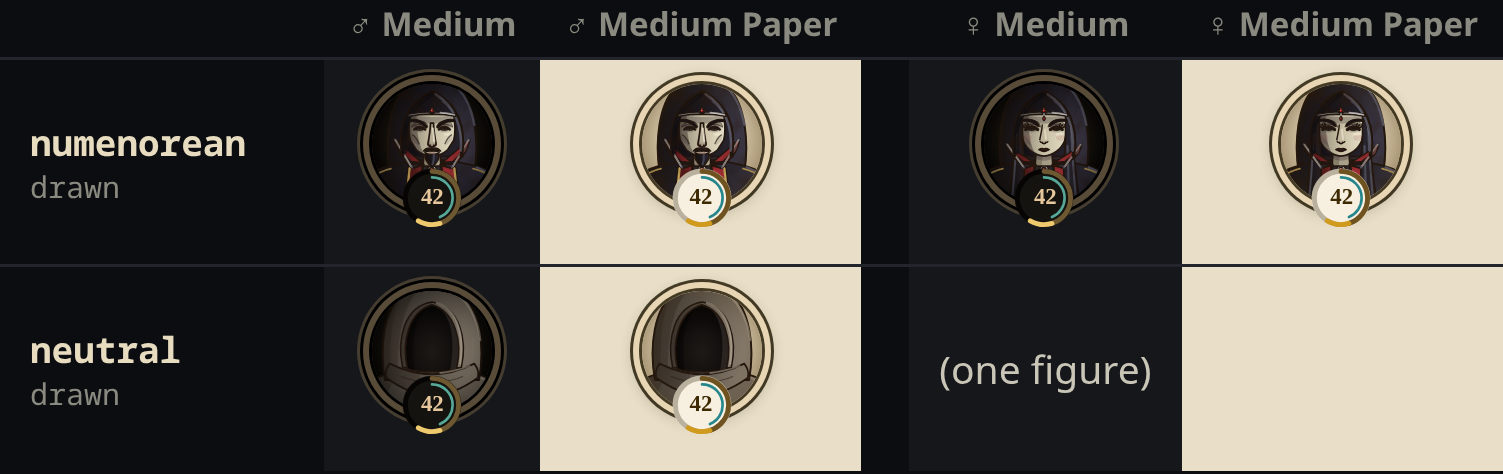
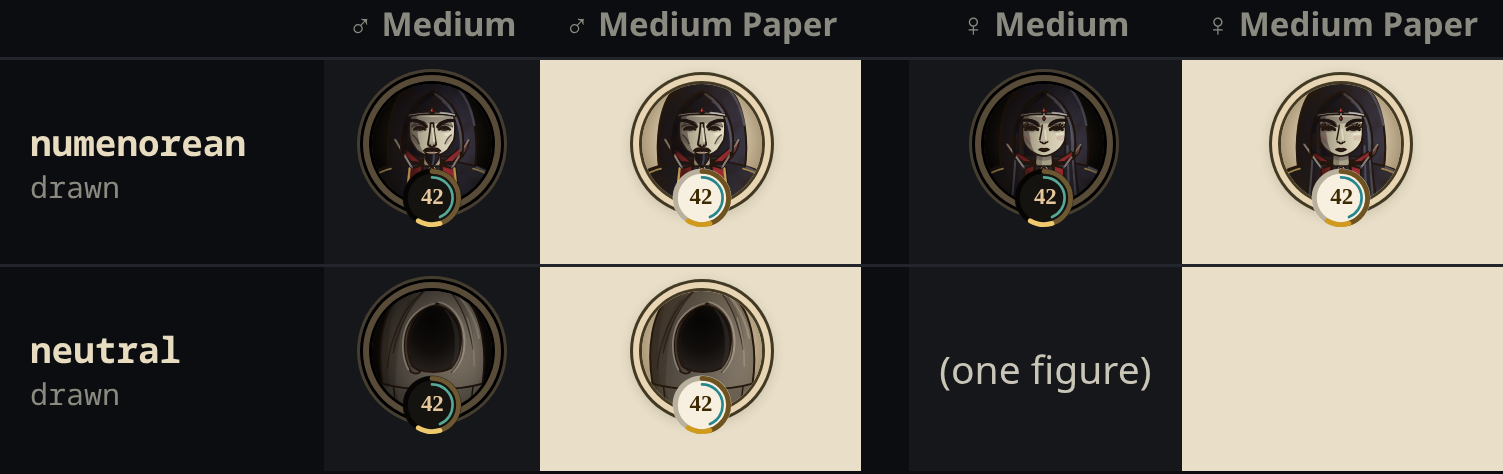
feat(portraits): the neutral figure as a cloth cowl, a soft off-centre peak, a folded rim
Claude-Session: https://claude.ai/code/session_01Fx3riSE2eMf87VxUMhb19J

Changed region(s): [[0.4285, 0.6203, 0.5203, 0.827], [0.2448, 0.6203, 0.3367, 0.827]]

diff --git a/notes/research/portraits/stage/draw/dark.ts b/notes/research/portraits/stage/draw/dark.ts
@@ -11,9 +11,11 @@
 //               brows. The man: a thin moustache and a narrow pointed beard.
 //               The woman: no beard, long black hair falling in front of the
 //               collar, dark red lips, a teardrop gem hanging from the circlet.
-//   neutral     no race known (before login, an unknown race): a broad,
-//               rounded cowl of undyed grey-brown wool, its opening pure
-//               shadow, no face, no eyes, no metal or gem. One drawing for
+//   neutral     no race known (before login, an unknown race): a cowl of
+//               undyed grey-brown wool falling to a soft peak a little off
+//               centre, folds to the shoulders, the rim folded over on the
+//               left, the opening pure shadow (deepest high up), no face, no
+//               eyes, no metal or gem; a plain wooden clasp. One drawing for
 //               both sexes. Warm mid-tone wool so it reads on the dark disc and
 //               on Paper, and never as the Númenórean (black, pointed, silver
 //               and red).
@@ -182,34 +184,41 @@ const numenorean: Draw = (o) => {
 
 const uDefs = (c: Ctx): string =>
   baseDefs(c) + lg(c, 'w', WOOL, .15) +
-  `<radialGradient id="${c.id('d')}" cx=".5" cy=".7" r=".75"><stop offset="0" stop-color="#1e1a17"/><stop offset=".7" stop-color="#0d0b0a"/><stop offset="1" stop-color="#050404"/></radialGradient>`;
+  // the shadow inside: deepest high in the opening, falling off softly toward the bottom
+  `<radialGradient id="${c.id('d')}" cx=".46" cy=".28" r=".8" fx=".44" fy=".22"><stop offset="0" stop-color="#060505"/><stop offset=".55" stop-color="#110e0c"/><stop offset="1" stop-color="#2c2622"/></radialGradient>`;
 
 const neutral: Draw = (o) => {
   const c = ctx(o), W = c.url('w'), hi = light(WOOL[2], .45);
-  // the cloak over the shoulders
-  const body = 'M-124,150L-122,104C-116,82 -98,70 -70,64L-40,58L40,58L70,64C98,70 116,82 122,104L124,150Z';
-  const cloak = `<path d="${body}" fill="${W}" stroke-width="1.2"/><path d="M-124,150L-122,104C-116,82 -98,70 -70,64L-50,60C-74,78 -82,110 -80,150Z" fill="${c.url('p')}" stroke="none"/><path d="M-124,150L-122,104C-116,86 -104,76 -90,70C-102,90 -106,116 -104,150Z" fill="${c.url('q')}" stroke="none"/>` +
-    `<path d="M-6,92L-4,150M4,96L8,150" fill="none" stroke-width=".9" opacity=".7"/>` +
-    c.fine('<path d="M-96,86C-92,106 -92,128 -94,150M-64,80C-62,104 -62,128 -64,150M66,80C64,104 64,128 66,150M96,86C92,106 92,128 94,150" fill="none" stroke-width=".6" opacity=".55"/>') +
-    `<path d="M78,70C100,78 114,90 118,110" fill="none" stroke="${hi}" stroke-width="1.4" opacity=".5"/>`;
-  // the cowl: a broad rounded hood, a soft peak
-  const H = 'M-80,76C-90,20 -82,-48 -46,-72C-28,-84 -10,-90 0,-92C10,-90 28,-84 46,-72C82,-48 90,20 80,76Z';
-  const hood = mass(H, W, 1.3, 'M-80,76C-90,20 -82,-48 -46,-72C-34,-80 -18,-87 -4,-90C-40,-70 -60,-30 -58,76Z', c, 'M-80,76C-90,20 -82,-48 -52,-68C-68,-38 -74,14 -68,76Z') +
-    `<path d="M30,-80C60,-62 78,-30 82,8" fill="none" stroke="${hi}" stroke-width="1.5" opacity=".55"/>` +
-    c.fine('<path d="M-68,-30C-74,0 -74,34 -72,66M-40,-74C-50,-60 -58,-44 -62,-26M70,-26C76,4 76,36 74,66M8,-88C18,-84 28,-80 36,-76M-58,-16C-62,10 -62,36 -58,58M60,-12C64,12 64,36 60,58" fill="none" stroke-width=".6" opacity=".55"/>');
-  // the opening: shadow, no face; the hood's lit inner side on the right gives it depth
-  const O = 'M-42,56C-52,10 -40,-40 0,-52C40,-40 52,10 42,56C26,64 -26,64 -42,56Z';
-  const hole = `<path d="${O}" fill="url(#${c.id('d')})" stroke-width="1.2"/>` +
-    `<path d="M22,-44C40,-28 50,10 42,56Q37,58 31,59C38,14 36,-18 18,-42Z" fill="${WOOL[0]}" opacity=".55" stroke="none"/>` +
-    `<path d="M-42,56C-52,10 -40,-40 0,-52C-28,-38 -36,0 -30,60Z" fill="#000" opacity=".3" stroke="none"/>`;
-  // the cowl's drape across the chest, closing the opening at the bottom, then the rim
-  const drape = 'M-72,48C-44,62 -22,66 0,66C22,66 44,62 72,48C78,56 80,64 78,72C50,92 24,102 0,102C-24,102 -50,92 -78,72C-80,64 -78,56 -72,48Z';
-  const R = 'M-42,56C-52,10 -40,-40 0,-52C40,-40 52,10 42,56L50,54C60,8 48,-50 0,-57C-48,-50 -60,8 -50,54Z';
-  const edge = mass(drape, W, 1.1, 'M-72,48C-50,58 -34,63 -20,65L-22,101C-40,98 -60,88 -78,72C-80,64 -78,56 -72,48Z', c) +
-    `<path d="M-52,70C-30,82 30,82 52,70M-30,86C-12,92 12,92 30,86" fill="none" stroke-width=".8" opacity=".5"/><path d="M14,64C36,62 52,56 64,52" fill="none" stroke="${hi}" stroke-width="1.2" opacity=".5"/>` +
-    mass(R, W, 1, 'M-42,56C-52,10 -40,-40 0,-52L0,-57C-48,-50 -60,8 -50,54Z', c) +
-    `<path d="M8,-55C40,-46 56,-6 48,48" fill="none" stroke="${hi}" stroke-width="1.3" opacity=".6"/>`;
-  return svg(c, uDefs(c), pen(c, cloak, true) + pen(c, hood, true) + pen(c, hole, true) + pen(c, edge, true));
+  // the cloak over sloping shoulders, two deep folds, the front edges meeting at a plain clasp
+  const body = 'M-126,150L-124,116C-120,98 -104,86 -84,80L-40,72L40,72L84,80C104,86 120,98 124,116L126,150Z';
+  const cloak = `<path d="${body}" fill="${W}" stroke-width="1.2"/><path d="M-126,150L-124,116C-120,98 -104,86 -84,80L-64,76C-86,96 -92,120 -90,150Z" fill="${c.url('p')}" stroke="none"/><path d="M-126,150L-124,116C-120,100 -110,92 -98,86C-108,104 -110,126 -108,150Z" fill="${c.url('q')}" stroke="none"/>` +
+    `<path d="M-66,84C-62,106 -64,130 -72,150L-54,150C-52,126 -56,104 -66,84Z" fill="${c.url('p')}" stroke="none"/><path d="M-66,84C-62,106 -64,130 -72,150" fill="none" stroke-width=".9"/>` +
+    `<path d="M70,86C66,108 68,130 76,150L64,150C62,128 62,106 70,86Z" fill="${WOOL[0]}" opacity=".35" stroke="none"/><path d="M70,86C66,108 68,130 76,150" fill="none" stroke-width=".9"/>` +
+    `<path d="M2,86C-2,108 -6,130 -10,150M8,86C10,108 14,130 18,150" fill="none" stroke-width=".9" opacity=".75"/>` +
+    `<path d="M86,84C104,90 116,102 120,118" fill="none" stroke="${hi}" stroke-width="1.4" opacity=".5"/>`;
+  // the hood: falls to a soft peak a little right of centre, as if the head had turned
+  const H = 'M-84,82C-94,26 -86,-40 -54,-68C-32,-86 -6,-93 12,-96C24,-90 42,-80 56,-64C86,-36 94,28 86,82C46,94 -40,96 -84,82Z';
+  const hood = mass(H, W, 1.3, 'M-84,82C-94,26 -86,-40 -54,-68C-36,-82 -16,-90 4,-94C-34,-74 -60,-30 -62,88Z', c, 'M-84,82C-94,26 -86,-40 -58,-64C-72,-34 -78,20 -72,86Z') +
+    // folds radiating from the peak to the shoulders
+    `<path d="M6,-90C-26,-70 -52,-30 -66,30C-68,10 -62,-24 -40,-58Z" fill="${c.url('p')}" stroke="none"/>` +
+    `<path d="M16,-90C40,-70 60,-34 70,24C74,-6 64,-44 38,-74Z" fill="${WOOL[0]}" opacity=".28" stroke="none"/>` +
+    `<path d="M6,-90C-26,-70 -52,-30 -66,30M16,-90C40,-70 60,-34 70,24M-4,-84C-36,-62 -70,-14 -76,56" fill="none" stroke-width=".8" opacity=".7"/>` +
+    `<path d="M22,-88C50,-70 72,-38 80,4" fill="none" stroke="${hi}" stroke-width="1.5" opacity=".55"/><path d="M60,-30C68,-6 72,22 72,52" fill="none" stroke="${hi}" stroke-width="1.1" opacity=".45"/>` +
+    c.fine('<path d="M-30,-74C-50,-56 -64,-30 -70,0M30,-78C48,-62 60,-42 66,-20M-58,40C-60,58 -58,72 -54,84M58,36C62,56 62,70 60,84" fill="none" stroke-width=".55" opacity=".5"/>');
+  // the opening: an irregular oval, turned a little to the right; shadow only (a chin line read as a smile)
+  const O = 'M-34,52C-48,22 -44,-28 -10,-48C12,-58 36,-44 46,-18C54,8 48,40 32,56C12,66 -18,64 -34,52Z';
+  const hole = `<path d="${O}" fill="url(#${c.id('d')})" stroke-width="1.1"/>` +
+    `<path d="M24,-44C40,-30 50,-4 46,26C44,40 40,50 32,56C40,36 42,6 34,-20C30,-32 26,-38 20,-44Z" fill="${WOOL[0]}" opacity=".45" stroke="none"/>`;
+  // the rim: on the left it folds over itself in a soft lip, on the right a thin lit edge
+  const flap = 'M-34,52C-48,22 -44,-28 -10,-48C-2,-52 6,-54 12,-54C-16,-50 -40,-30 -46,0C-50,24 -46,44 -36,62C-30,66 -24,66 -20,62Z';
+  const rim = mass(flap, W, 1.1, flap, c) +
+    `<path d="M-40,58C-50,40 -52,14 -46,-8C-40,-30 -22,-48 4,-54" fill="none" stroke="${hi}" stroke-width="1.2" opacity=".55"/>` +
+    `<path d="M-30,50C-42,26 -40,-16 -14,-40" fill="none" stroke-width=".7" opacity=".6"/>` +
+    `<path d="M12,-56C34,-52 50,-30 54,-4C58,22 52,46 36,62" fill="none" stroke="${hi}" stroke-width="1.4" opacity=".6"/>` +
+    `<path d="M12,-56C34,-52 50,-30 54,-4C58,22 52,46 36,62" fill="none" stroke-width=".8" opacity=".5" transform="translate(-3,1)"/>`;
+  // a plain wooden clasp where the cloak closes under the hood
+  const clasp = `<ellipse cx="5" cy="86" rx="6" ry="4.6" fill="#6b5a46" stroke-width="1"/><path d="M2,84Q5,82.5 8,84" fill="none" stroke="#a89478" stroke-width=".9" opacity=".7"/>`;
+  return svg(c, uDefs(c), pen(c, cloak, true) + pen(c, hood, true) + pen(c, hole, true) + pen(c, rim + clasp, true));
 };
 
 export const portraits: PortraitSet = { numenorean, neutral };
